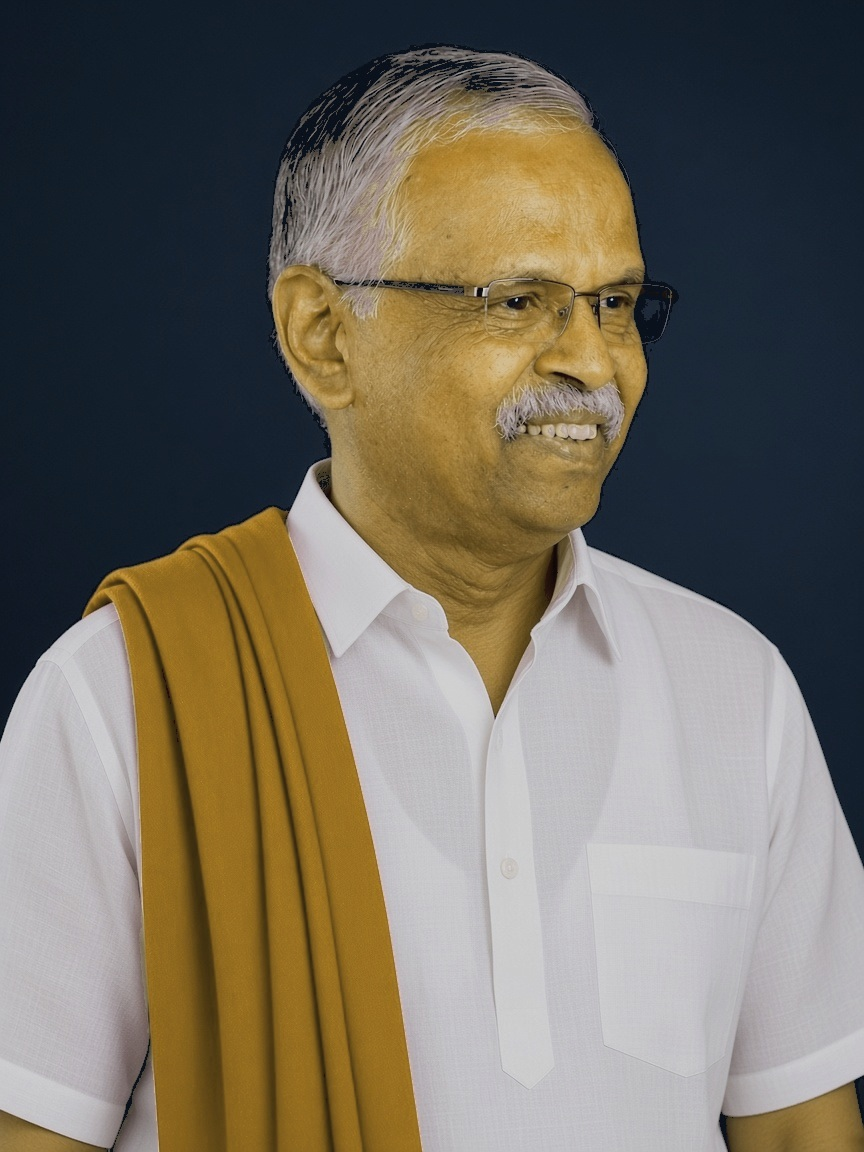
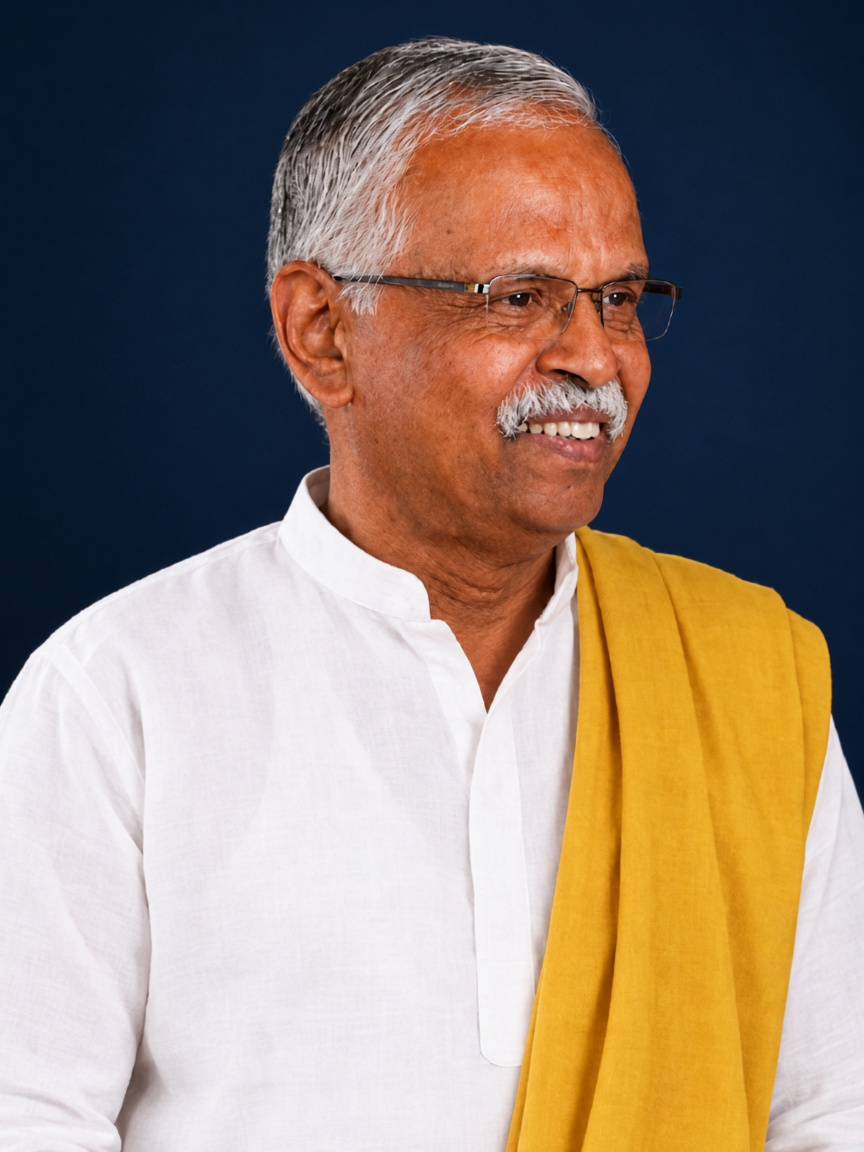
Show Gnanasiriyar Balasubramanian label and portrait on founder card

diff --git a/src/config/images.js b/src/config/images.js
@@ -114,7 +114,7 @@ const catalog = {
   sidebarPost3: [`${V}/sidebar-post-3.jpg`],
 };
 
-const VETHAM_ASSET_VERSION = 'founders-balasubramanian-selvin-portrait-v1';
+const VETHAM_ASSET_VERSION = 'founders-rathakrishnan-balasubramanian-portrait-v1';
 
 export function img(key) {
   const entry = catalog[key];

diff --git a/src/config/site.js b/src/config/site.js
@@ -40,6 +40,7 @@ export const NAV_ITEMS = [
 export const TEAM = [
   {
     name: 'Gnana Rishi A S Rathakrishnan',
+    displayName: 'Gnanasiriyar Balasubramanian',
     role: 'Founder',
     image: 'trustee1Pro',
     portrait: 'portraitFounder',
